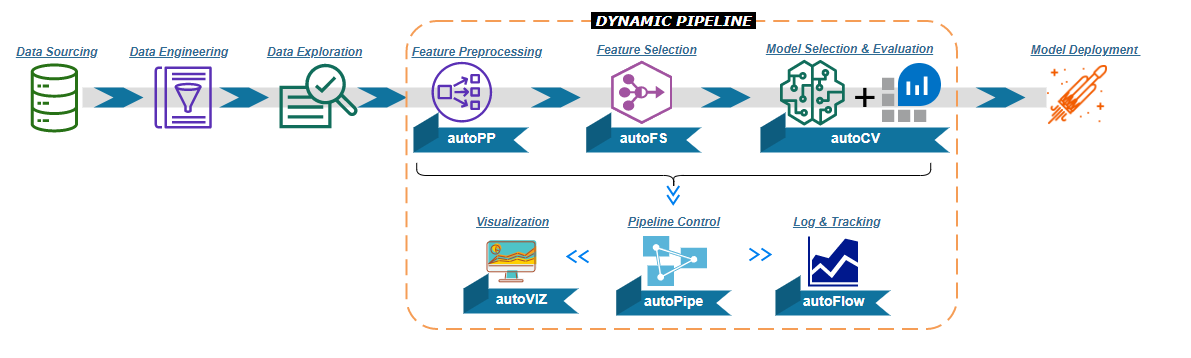
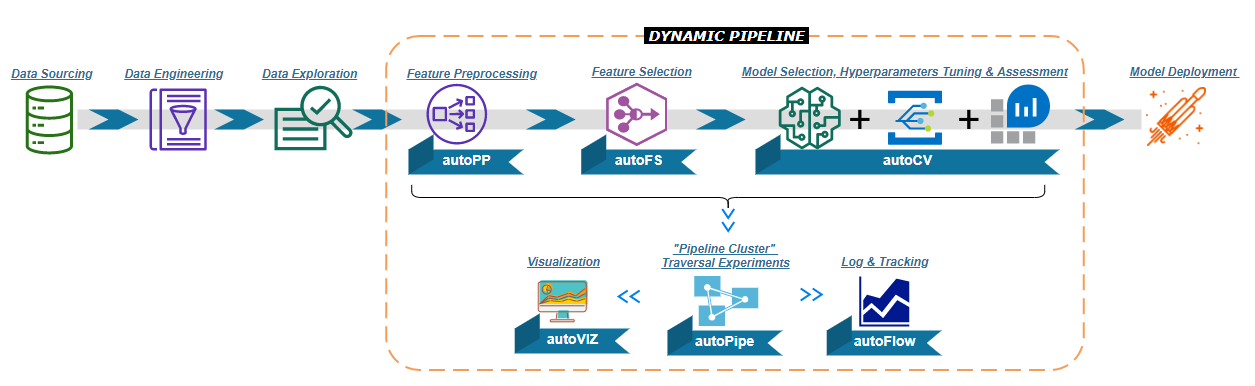
Update Docs

Changed region(s): [[0.0, 0.0307, 0.9941, 0.9218], [0.3417, 0.9525, 0.8388, 0.9832]]

diff --git a/dynapipe/autoPipe.py b/dynapipe/autoPipe.py
@@ -48,6 +48,22 @@ logger.info(Test_comment)
 
 
 class autoPipe:
+    """This class is to build a scikit-learn-style pipline, as a chain of preprocessing, feature selection, model selection and model evaluation.
+    
+    Parameters
+    ----------
+    steps: list, default = None
+        List of (name, transform) tuples (implementing fit & transform) that are chained, in the order in which they are chained, with the last object a model evaluation function.
+    
+    Example
+    -------
+    
+    .. [Example]: https://dynamic-pipeline.readthedocs.io/en/latest/demos.html#dynamic-pipeline-building-using-autopipe
+    
+    References
+    ----------
+    None
+    """
     def __init__(self,steps):
         self.step1 = steps[0][1]
         self.step2 = steps[1][1]
@@ -56,6 +72,31 @@ class autoPipe:
         self.step5 = steps[4][1]
 
     def fit(self,data):
+        """Fits and transforms a chain of Dynamic Pipeline modules.
+        
+        Parameters
+        ----------
+        input_data : pandas dataframe, shape = [n_samples, n_features]
+            
+            NOTE: 
+            The input_data should be the datasets after basic data cleaning & well feature deduction, the more features involve will result in more columns permutation outputs. 
+        
+        Returns
+        -------
+        DICT_PREP_INFO : dictionary
+            Each key is the # of preprocessed dataset("Dataset_xxx" format, i.e. "Dataset_10"), each value stores an info string about what transforms applied.
+            i.e. DICT_PREPROCESSING['Dataset_0'] stores value "winsor_0-Scaler_None-- Encoded Features:['diagnosis', 'Size_3', 'area_mean']", which means applied 1st mode of winsorization, none scaler applied, and the encoded columns names(shown the enconding approachs in the names)
+        DICT_FEATURE_SELECTION_INFO : dictionary
+            Each key is the # of preprocessed dataset, each value stores the name of features selected after the autoFS module.
+        DICT_MODELS_EVALUATION : dictionary
+            Each key is the # of preprocessed dataset, each value stores the model evaluation results with its validate dataset.
+        DICT_DATA : dictionary
+            Each key is the # of preprocessed dataset, and first level sub-key is the type of splitted sets(including 'DICT_Train','DICT_TEST',and'DICT_Validate').
+            The second level sub-key is "X" for features and "y" for label, each value stores the datasets related to the keys(Pandas Dataframe format)
+            i.e. DICT_DATA['Dataset_0']['DICT_TEST']["X"] is the train features of Dataset_0's test dataset
+        models_summary : Pandas Dataframe
+            Model selection results ranking table among all composits of preprocessed datasets, selected features and all posible models with optimal parameters. 
+        """
         dyna = self.step1
         DICT_PREP_DF,DICT_PREP_INFO = dyna.fit(input_data = data)
         print(f"Total combinations: {len(DICT_PREP_DF.keys())}")

diff --git a/dynapipe/autoPP.py b/dynapipe/autoPP.py
@@ -51,10 +51,11 @@ class dynaPreprocessing:
     
     Parameters
     ----------
-    custom_parameters: dictionary
-        Custom parameters settings input - Default: None.
+    custom_parameters: dictionary, default = None
+        Custom parameters settings input.
         
-        NOTE: default_parameters = {
+        NOTE: 
+        default_parameters = {
             "scaler" : ["None", "standard", "minmax", "maxabs", "robust"],
             "encode_band" : [10],
             "low_encode" : ["onehot","label"], 
@@ -64,16 +65,17 @@ class dynaPreprocessing:
             "cols" : [30]
             }
 
-    label_col: str
-        Name of label column - Default: None.
-    model_type: str
+    label_col: str, default = None
+        Name of label column.
+    model_type: str, default = "reg"
         "reg" for regression problem or "cls" for classification problem - Default: "reg".
-    export_output_files: bool
-        Export qualified permutated datasets to ./df_folder - Default: False.
+    export_output_files: bool, default = False
+        Export qualified permutated datasets to ./df_folder.
     
     Example
     -------
-    See Demos -> Demo 1
+
+    .. [Example]: https://dynamic-pipeline.readthedocs.io/en/latest/demos.html#feature-preprocessing-for-a-regression-problem-using-autopp
     
     References
     ----------
@@ -105,12 +107,14 @@ class dynaPreprocessing:
         Parameters
         ----------
         input_data : pandas dataframe, shape = [n_samples, n_features]
-            NOTE: The input_data should be the datasets after basic data cleaning & well feature deduction, the more features involve will result in more columns permutation outputs. 
+            
+            NOTE: 
+            The input_data should be the datasets after basic data cleaning & well feature deduction, the more features involve will result in more columns permutation outputs. 
         
         Returns
         -------
         DICT_PREP_DF : dictionary
-            Each key is the # of the output preprocessed dataset, each value stores the dataset
+            Each key is the # of output preprocessed dataset, each value stores the dataset
         DICT_PREP_INFO : dictionary
             Dictionary for reference. Each key is the # of the output preprocessed dataset, each value stores the column names of the dataset
         """

diff --git a/dynapipe/autoFS.py b/dynapipe/autoFS.py
@@ -55,6 +55,30 @@ def rank_fs_result(clf_sel_result = None,tr_features = None):
     return(fs_features)
 
 class dynaFS_clf:
+    """This class implements feature selection for classification problem.
+    
+    Parameters
+    ----------
+    fs_num : int, default = None
+        List of (name, transform) tuples (implementing fit & transform) that are chained, in the order in which they are chained, with the last object a model evaluation function.
+    
+    random_state : int, default = None
+
+    cv : int, default = None
+
+    in_pipeline
+
+    input_from_file
+
+    Example
+    -------
+    
+    .. [Example]: https://dynamic-pipeline.readthedocs.io/en/latest/demos.html#dynamic-pipeline-building-using-autopipe
+    
+    References
+    ----------
+    None
+    """
     def __init__(self, fs_num = None ,random_state = None,cv = None, in_pipeline = False, input_from_file = True):
         self.fs_num = fs_num
         self.random_state = random_state

diff --git a/docs/index.rst b/docs/index.rst
@@ -4,24 +4,27 @@ Welcome to Dynamic Pipeline's Documentation!
    :width: 200
    :align: center
    
-**Dynamic Pipeline** is a high-level API to help data scientists building models in ensemble way, and automating Machine Learning workflow with simple codes. The core advantage Dynamic Pipeline is it automates general scikit-learn-style pipeline with each component ensembled, and avoids repeated manual cross-experiments with iteration of algrithms combination and searching best parameters. By modularizing all key classic pipeline components in reuseable packages, it allows all components to be custom tunable along with high scalability.
+**Dynamic Pipeline** is a high-level API to help data scientists building models in ensemble way, and automating Machine Learning workflow with simple codes. 
+Comparing other popular "AutoML or Automatic Machine Learning" APIs, **Dynamic Pipeline** is designed as a ML workflow optimizer with higher-level API targeting to avoid manual repetitive train-along-evaluate experiments in general pipeline building. 
+To achieve that, **Dynamic Pipeline** creates *Pipeline Cluster* to assemble all cross-matching pipelines covering major tasks of Machine Learning workflow, and apply traversal-experiment to search the optimal baseline model.
+Besides, by modularizing all key pipeline components in reuseable packages, it allows all components to be custom tunable along with high scalability.
 
 .. image:: DynamicPipeline_Workflow.PNG
    :width: 980
 
 Dynamic Pieline share a few useful properties for data scientists:
 
-      * *Easy & less coding* - High-level APIs that each ML component is highly automated and modularized;
+      * *Easy & less coding* - High-level APIs to implement *Pipeline Cluster* traversal experiments, and each ML component is highly automated and modularized;
 
-      * *Well ensembled* - Each key component is ensemble of popular algorithms w/ optimal parameters searching included;
+      * *Well ensembled* - Each key component is ensemble of popular algorithms w/ optimal hyperparameters tuning included;
       
-      * *Automated & dynamic* - autoPipe can build a scikit-learn-style pipline workflow to easily achieve automated ML;
+      * *Hardly omission* - Using * Pipeline Cluster * technique, to cross-experiment with combined permutated input datasets, feature selection, and model selection;
       
-      * *Hardly omission* - Create powerful cross-experiments combined permutated input datasets, feature selection, and model selection;
+      * *Scalable* - Each module could add new algorithms easily due to its ensemble and reuseable coding design;
+
+      * *Adaptable* - *Pipeline Cluster* traversal experiments makes it easier to adapt unseen datasets with the right pipeline;
       
-      * *Algorithms scalable* - Each module could add new algorithms easily due to its ensemble coding structure;
-      
-      * *Adaptable* - Support custom settings to add/remove algorithms or modify parameters for elastic requirements.
+      * *Custom Modify Welcomed* - Support custom settings to add/remove algorithms or modify hyperparameters for elastic requirements.
 
 
 

diff --git a/docs/autoPipe.rst b/docs/autoPipe.rst
@@ -8,9 +8,15 @@ Description :
     * Automated the iteration of cross-experiment to find the best baseline model
     * Generate comparable and parameter-tracable dictionaies and reports to support autoVIZ and autoFlow modules
  
- - Pipeline Components:
+ - Pipeline Steps:
     * autoPP - dynaPreprocessing() Class in autoPP module
     * Datasets Splitting - pipeline_splitting_rule() Function in utilis_funs module
     * autoFS - dynaFS_clf() or dynaFS_reg() Class in autoFS module
     * autoCV - dynaClassifier() or dynaRegressor() Class in autoCV module
     * Model Evaluate - evaluate_model() Class in autoCV module
+
+autoPipe
+---------------------
+
+.. autoclass:: dynapipe.autoPipe.autoPipe
+    :members:

diff --git a/docs/autoCV.rst b/docs/autoCV.rst
@@ -7,7 +7,7 @@ Description :
     * Automate the models training with cross validation
     * GridSearch the best parameters
     * Export the optimized models as pkl files, and saved them in /pkl folders
-    * Validate the optimized models, and select the best model 
+    * Validate the optimized models, and select the best model  
 
 - Class
     * dynaClassifier : Focus on classification problems
